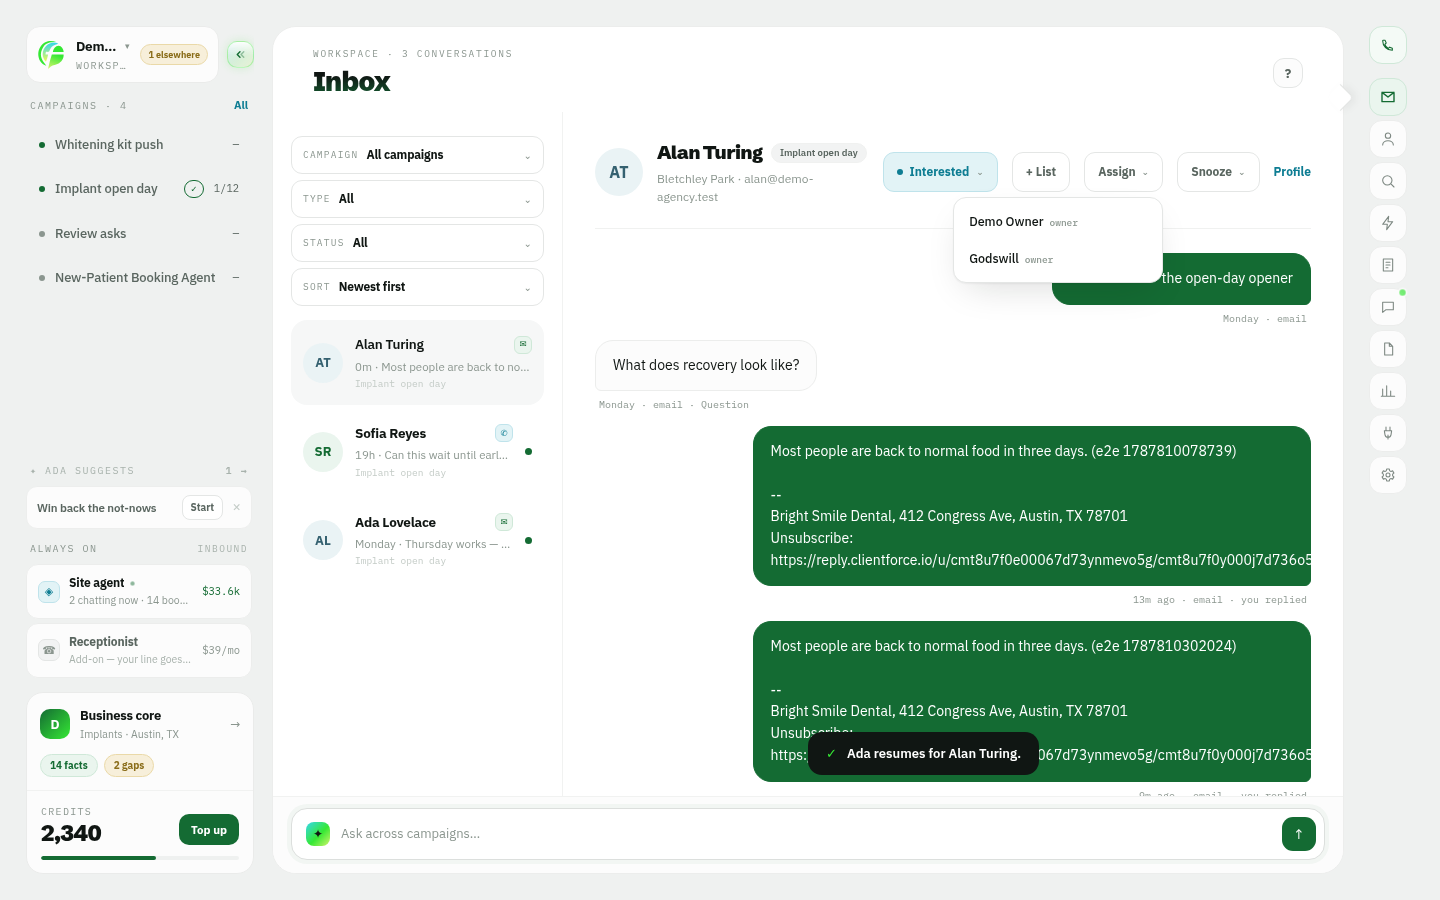
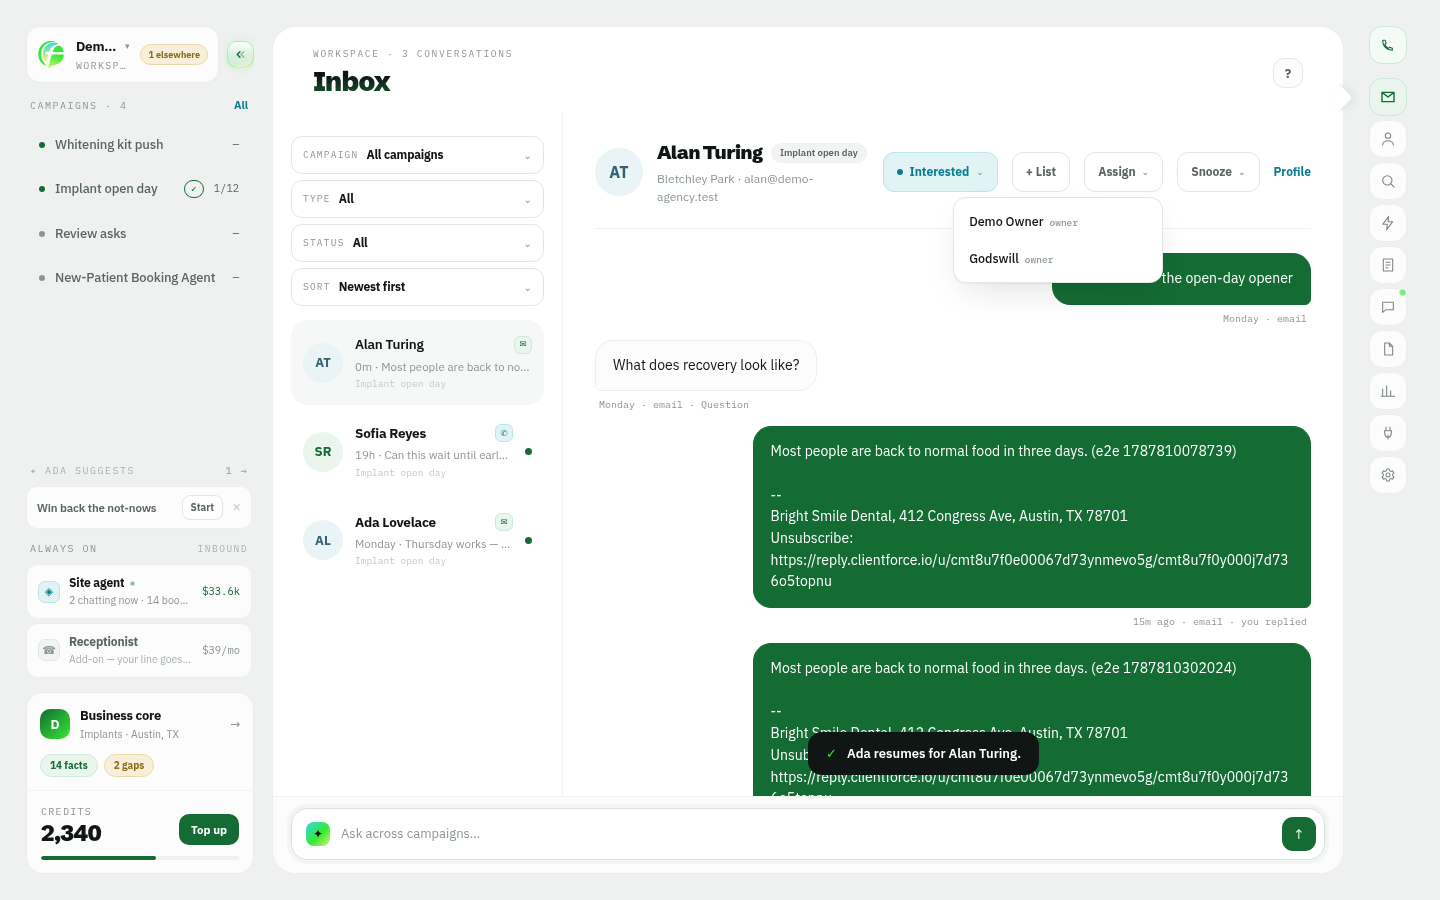
B3b: the reading pane and thread list shrink to the canvas — composer always in frame
Claude-Session: https://claude.ai/code/session_01DbCBayNCFV52DxCeG4RdaG

Changed region(s): [[0.5, 0.6222, 0.9062, 0.7467], [0.5, 0.7778, 0.9062, 0.9022]]

diff --git a/apps/web/components/bold/BoldInboxView.tsx b/apps/web/components/bold/BoldInboxView.tsx
@@ -485,7 +485,7 @@ export function BoldInboxView({
     // below the fold. Short threads render identically.
     <div style={{ display: "flex", minHeight: 0, height: "100%", flexWrap: "wrap" }} data-testid="bold-inbox">
       {/* ------------------------------------------------------- thread list */}
-      <div style={{ width: 290, flex: "none", borderRight: "1px solid var(--cvb-line-inner)", padding: "24px 18px", overflowY: "auto", minHeight: 0 }}>
+      <div style={{ width: 290, flex: "none", maxHeight: "100%", borderRight: "1px solid var(--cvb-line-inner)", padding: "24px 18px", overflowY: "auto", minHeight: 0 }}>
         <div style={{ display: "flex", flexDirection: "column", gap: 6, marginBottom: 14 }}>
           {pickers.map((p) => (
             <div key={p.id} style={{ position: "relative" }}>
@@ -588,7 +588,7 @@ export function BoldInboxView({
       </div>
 
       {/* ------------------------------------------------------ reading pane */}
-      <div data-testid="bold-inbox-pane" style={{ flex: 1, minWidth: 280, padding: "26px 32px", display: "flex", flexDirection: "column" }}>
+      <div data-testid="bold-inbox-pane" style={{ flex: 1, minWidth: 280, minHeight: 0, maxHeight: "100%", padding: "26px 32px", display: "flex", flexDirection: "column" }}>
         {sel ? (
           <>
             <div style={{ display: "flex", alignItems: "center", gap: 14, paddingBottom: 22, borderBottom: "1px solid var(--cvb-line-2)", flexWrap: "wrap" }}>
